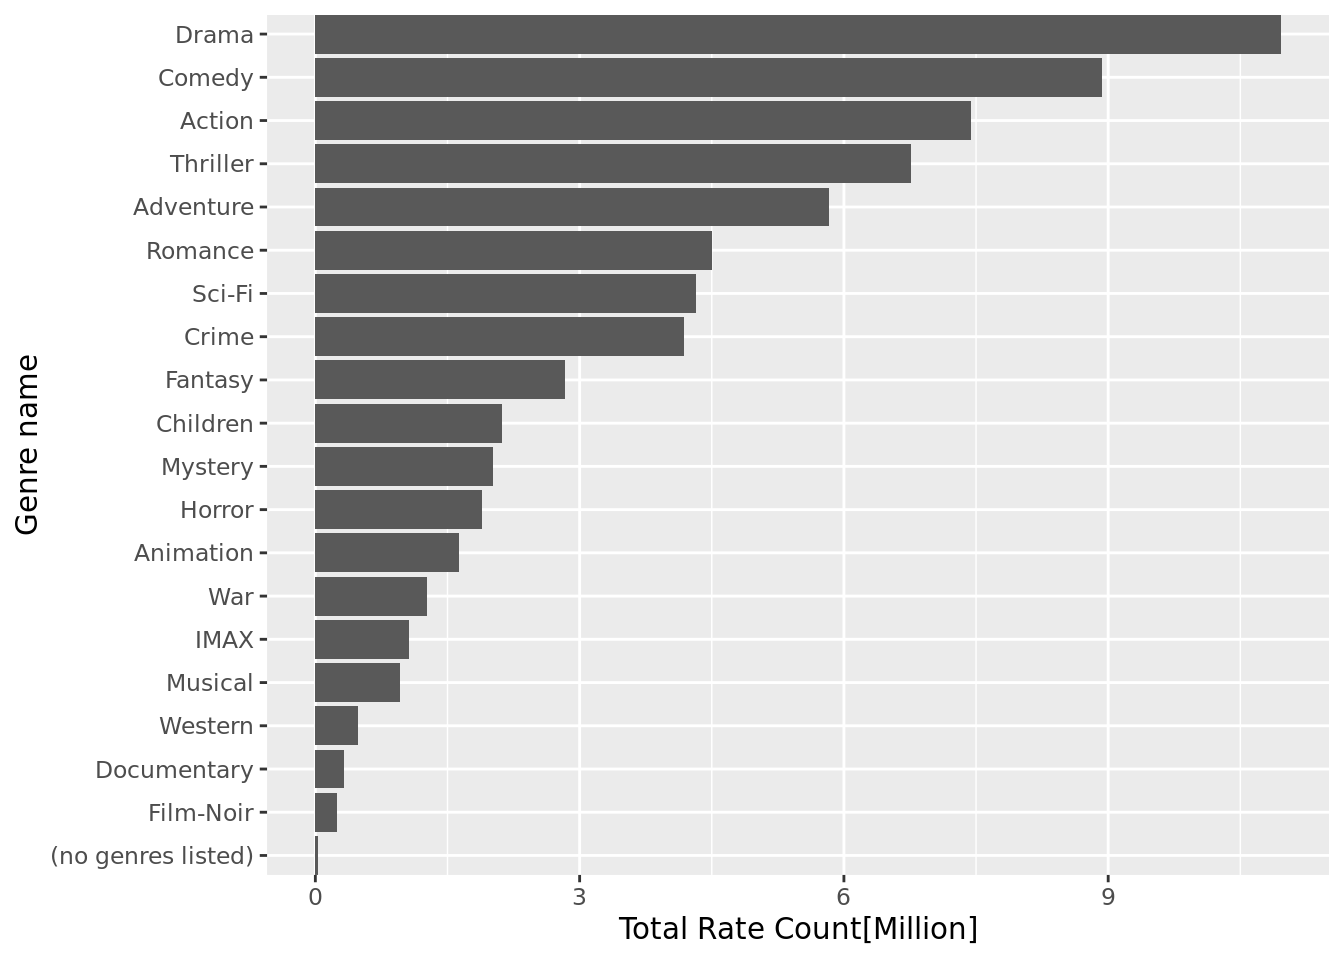
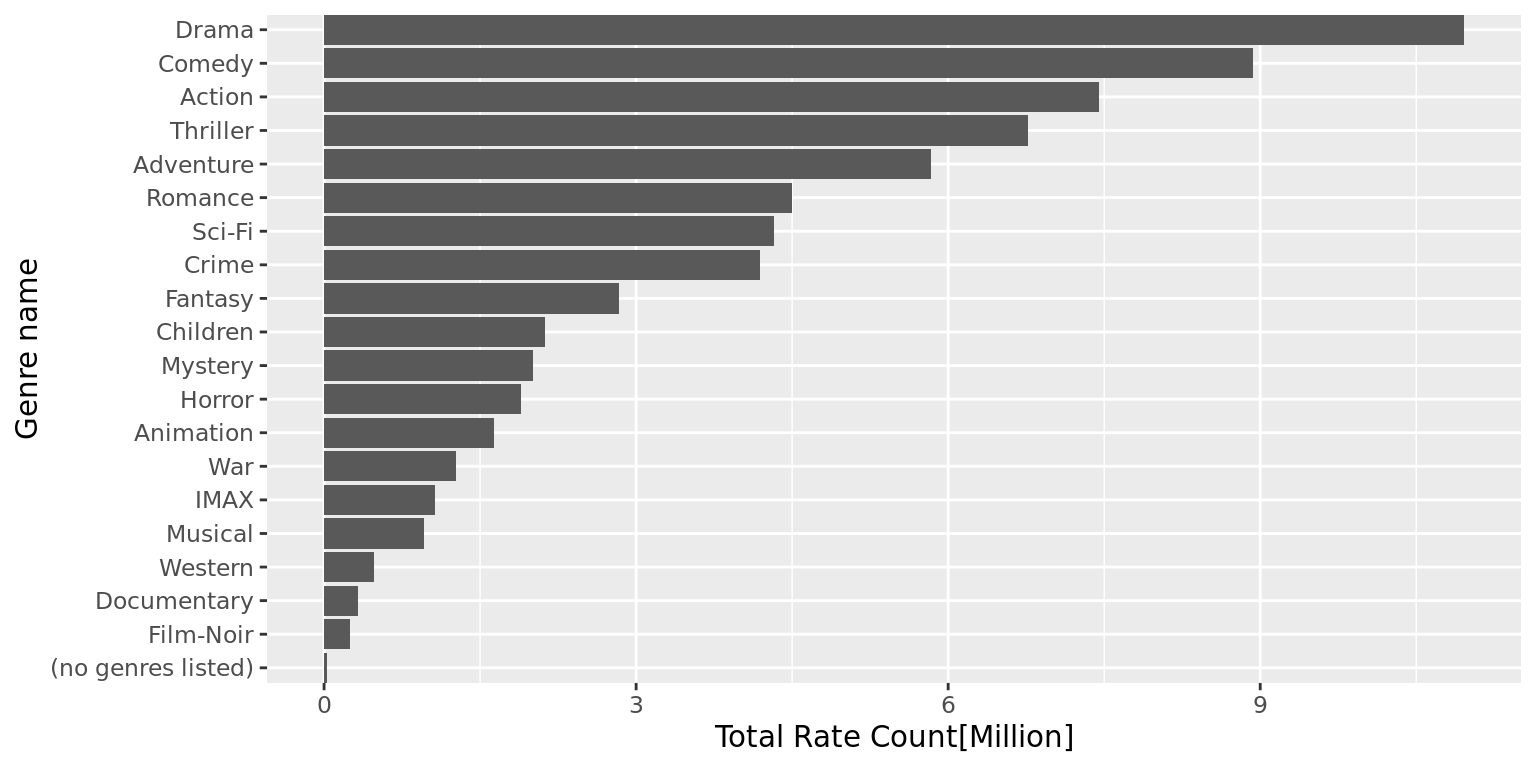
update for book

diff --git a/docs/results.html b/docs/results.html
@@ -109,21 +109,20 @@
             <section class="normal" id="section-">
 <div id="results" class="section level1 hasAnchor" number="5">
 <h1><span class="header-section-number">Chapter 5</span> Results<a href="results.html#results" class="anchor-section" aria-label="Anchor link to header"></a></h1>
+<p>We begin with an overall analysis and then move to genre analysis. Finally we reach to analysing popular movie in the most popular genre and to see its connection with other movies.</p>
 <div id="overall-trend" class="section level2 hasAnchor" number="5.1">
 <h2><span class="header-section-number">5.1</span> Overall Trend<a href="results.html#overall-trend" class="anchor-section" aria-label="Anchor link to header"></a></h2>
-<p>//To-do: Modified Label<br />
-</p>
 <p><img src="finalproj_files/figure-html/unnamed-chunk-6-1.png" width="768" style="display: block; margin: auto;" /></p>
 </div>
 <div id="genre-exploration" class="section level2 hasAnchor" number="5.2">
 <h2><span class="header-section-number">5.2</span> Genre Exploration<a href="results.html#genre-exploration" class="anchor-section" aria-label="Anchor link to header"></a></h2>
 <p>//To-do: Modified Label<br />
 </p>
-<p><img src="finalproj_files/figure-html/unnamed-chunk-7-1.png" width="672" style="display: block; margin: auto;" /></p>
+<p><img src="finalproj_files/figure-html/unnamed-chunk-7-1.png" width="768" style="display: block; margin: auto;" /></p>
 </div>
 <div id="popular-genre-year-analysis" class="section level2 hasAnchor" number="5.3">
 <h2><span class="header-section-number">5.3</span> Popular Genre Year Analysis<a href="results.html#popular-genre-year-analysis" class="anchor-section" aria-label="Anchor link to header"></a></h2>
-<p><img src="finalproj_files/figure-html/unnamed-chunk-8-1.png" width="576" style="display: block; margin: auto;" /></p>
+<p><img src="finalproj_files/figure-html/unnamed-chunk-8-1.png" width="768" style="display: block; margin: auto;" /></p>
 </div>
 <div id="overlap-for-popular-genres" class="section level2 hasAnchor" number="5.4">
 <h2><span class="header-section-number">5.4</span> Overlap for popular genres<a href="results.html#overlap-for-popular-genres" class="anchor-section" aria-label="Anchor link to header"></a></h2>

diff --git a/docs/data-sources.html b/docs/data-sources.html
@@ -4,23 +4,23 @@
 
   <meta charset="utf-8" />
   <meta http-equiv="X-UA-Compatible" content="IE=edge" />
-  <title>Chapter 2 Data sources | YOUR TITLE HERE</title>
-  <meta name="description" content="Chapter 2 Data sources | YOUR TITLE HERE" />
+  <title>Chapter 2 Data sources | Hierachical Analysis for MovieLen: From overall to the movie</title>
+  <meta name="description" content="Chapter 2 Data sources | Hierachical Analysis for MovieLen: From overall to the movie" />
   <meta name="generator" content="bookdown 0.26 and GitBook 2.6.7" />
 
-  <meta property="og:title" content="Chapter 2 Data sources | YOUR TITLE HERE" />
+  <meta property="og:title" content="Chapter 2 Data sources | Hierachical Analysis for MovieLen: From overall to the movie" />
   <meta property="og:type" content="book" />
   
   
   
 
   <meta name="twitter:card" content="summary" />
-  <meta name="twitter:title" content="Chapter 2 Data sources | YOUR TITLE HERE" />
+  <meta name="twitter:title" content="Chapter 2 Data sources | Hierachical Analysis for MovieLen: From overall to the movie" />
   
   
   
 
-<meta name="author" content="YOUR NAMES HERE" />
+<meta name="author" content="Ziwen Ye, Fan Wu" />
 
 
 <meta name="date" content="2022-05-06" />
@@ -99,7 +99,7 @@
       <div class="body-inner">
         <div class="book-header" role="navigation">
           <h1>
-            <i class="fa fa-circle-o-notch fa-spin"></i><a href="./">YOUR TITLE HERE</a>
+            <i class="fa fa-circle-o-notch fa-spin"></i><a href="./">Hierachical Analysis for MovieLen: From overall to the movie</a>
           </h1>
         </div>
 
